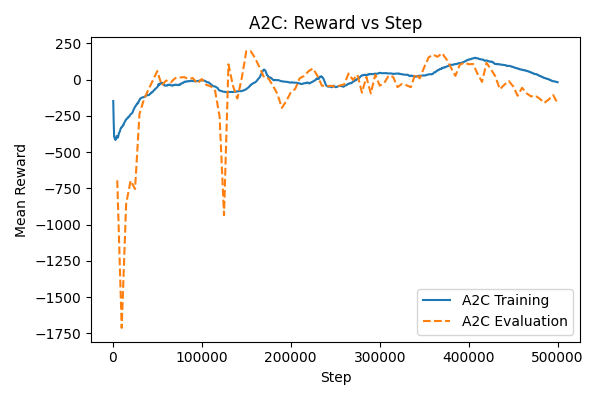
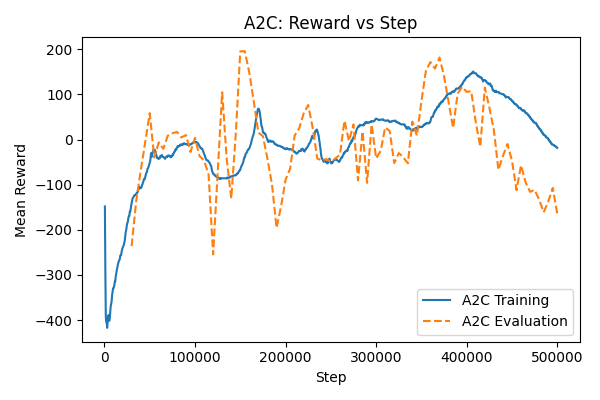
Adapt plots to show same min and max limits

diff --git a/plots/exercise2_plots.py b/plots/exercise2_plots.py
@@ -38,10 +38,41 @@ PPO_REW_PLOT_FILE = "./plots/exercise2_ppo_reward_plot.png"
 PPO_LEN_PLOT_FILE = "./plots/exercise2_ppo_len_plot.png"
 A2C_REW_PLOT_FILE = "./plots/exercise2_a2c_reward_plot.png"
 A2C_LEN_PLOT_FILE = "./plots/exercise2_a2c_len_plot.png"
+# Find global min/max for reward and add a little space
+all_reward_values = pd.concat(
+    [
+        dqn_eval_rew_df["Value"],
+        dqn_rollout_rew_df["Value"],
+        ppo_eval_rew_df["Value"],
+        ppo_rollout_rew_df["Value"],
+        a2c_eval_rew_df["Value"],
+        a2c_rollout_rew_df["Value"],
+    ]
+)
+reward_min, reward_max = all_reward_values.min(), all_reward_values.max()
+reward_range = reward_max - reward_min
+reward_min -= 0.05 * reward_range
+reward_max += 0.05 * reward_range
+
+# Find global min/max for episode length and add a little space
+all_len_values = pd.concat(
+    [
+        dqn_eval_len_df["Value"],
+        dqn_rollout_len_df["Value"],
+        ppo_eval_len_df["Value"],
+        ppo_rollout_len_df["Value"],
+        a2c_eval_len_df["Value"],
+        a2c_rollout_len_df["Value"],
+    ]
+)
+len_min, len_max = all_len_values.min(), all_len_values.max()
+len_range = len_max - len_min
+len_min -= 0.05 * len_range
+len_max += 0.05 * len_range
 
 
 def plot_metric(
-    rollout_df, eval_df, plot_file, ylabel, title, rollout_label, eval_label
+    rollout_df, eval_df, plot_file, ylabel, title, rollout_label, eval_label, ylim
 ):
     plt.figure(figsize=(6, 4))
     sns.lineplot(data=rollout_df, x="Step", y="Value", label=rollout_label)
@@ -49,6 +80,7 @@ def plot_metric(
     plt.xlabel("Step")
     plt.ylabel(ylabel)
     plt.title(title)
+    plt.ylim(ylim)
     plt.legend()
     plt.tight_layout()
     plt.savefig(plot_file)
@@ -64,6 +96,7 @@ plot_metric(
     "DQN: Reward vs Step",
     "DQN Training",
     "DQN Evaluation",
+    (reward_min, reward_max),
 )
 plot_metric(
     dqn_rollout_len_df,
@@ -73,6 +106,7 @@ plot_metric(
     "DQN: Episode Length vs Step",
     "DQN Training",
     "DQN Evaluation",
+    (len_min, len_max),
 )
 
 # PPO plots
@@ -84,6 +118,7 @@ plot_metric(
     "PPO: Reward vs Step",
     "PPO Training",
     "PPO Evaluation",
+    (reward_min, reward_max),
 )
 plot_metric(
     ppo_rollout_len_df,
@@ -93,6 +128,7 @@ plot_metric(
     "PPO: Episode Length vs Step",
     "PPO Training",
     "PPO Evaluation",
+    (len_min, len_max),
 )
 
 # A2C plots
@@ -104,6 +140,7 @@ plot_metric(
     "A2C: Reward vs Step",
     "A2C Training",
     "A2C Evaluation",
+    (reward_min, reward_max),
 )
 plot_metric(
     a2c_rollout_len_df,
@@ -113,4 +150,5 @@ plot_metric(
     "A2C: Episode Length vs Step",
     "A2C Training",
     "A2C Evaluation",
+    (len_min, len_max),
 )
